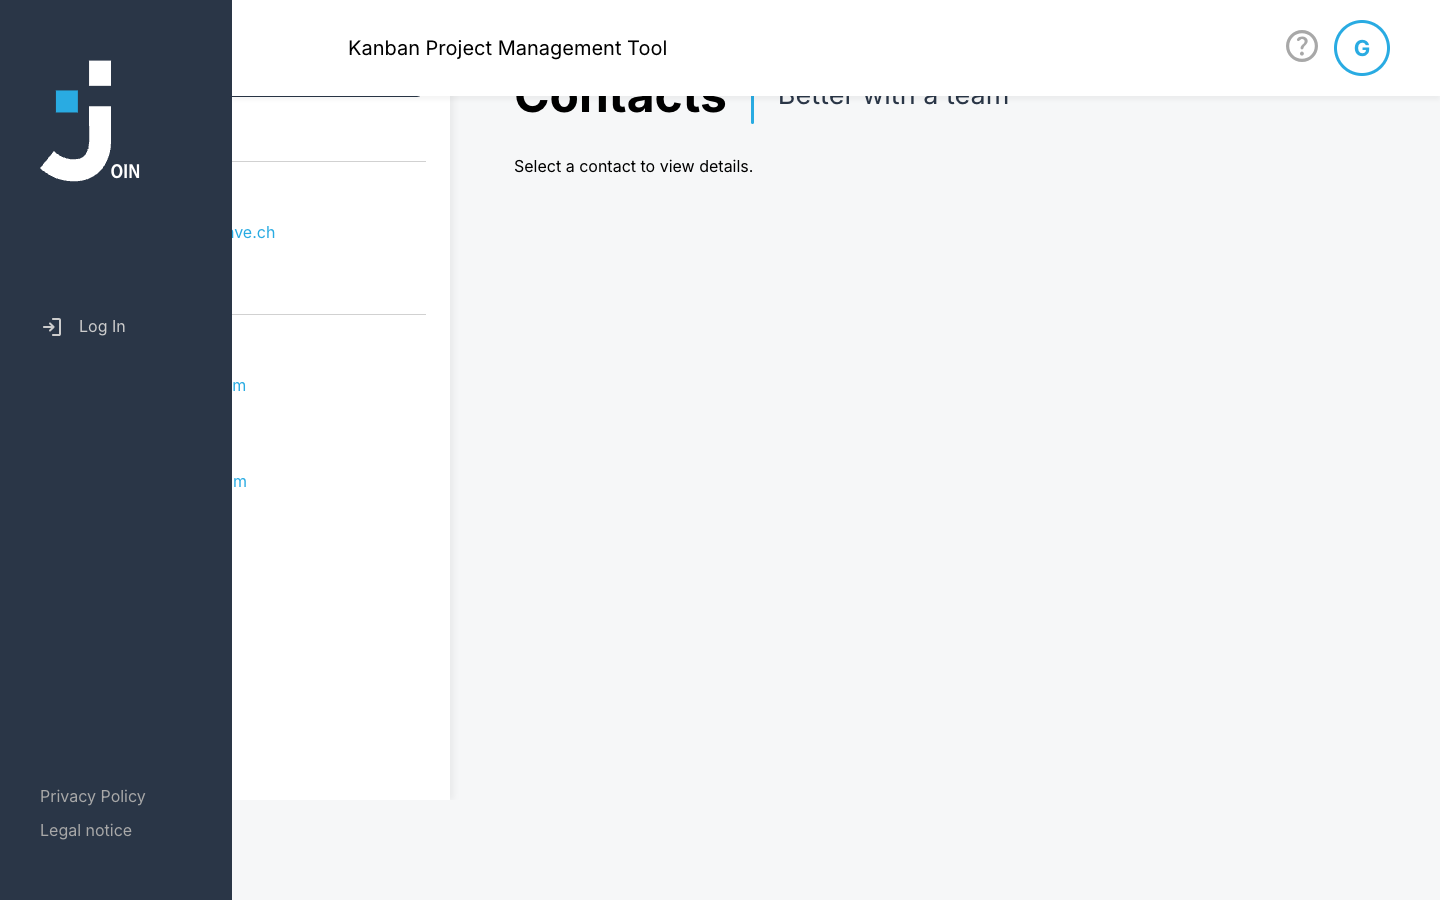
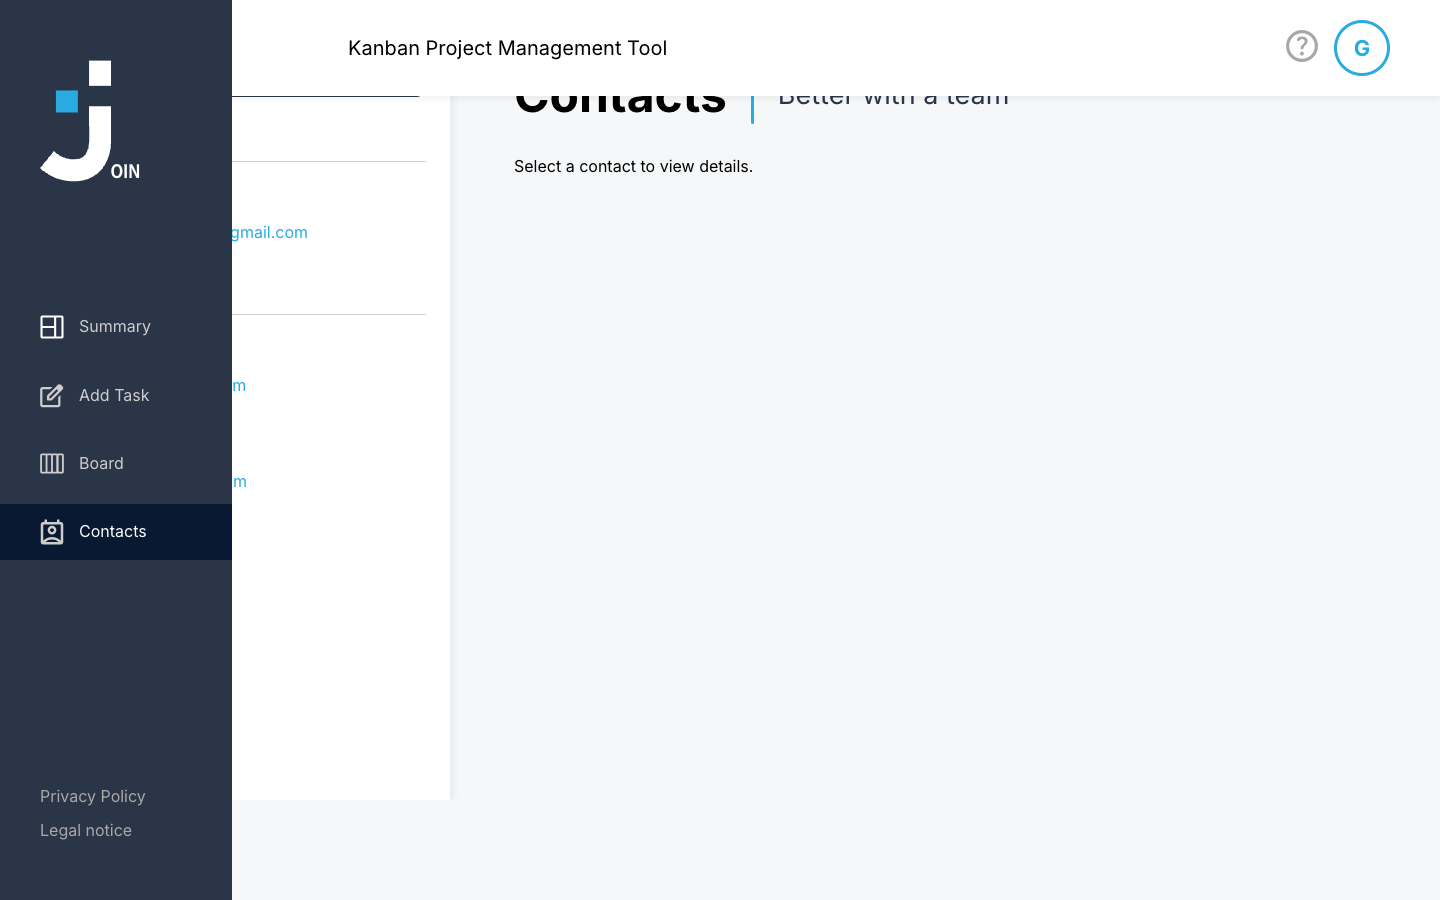
Fix 320px responsive issues and guest mobile navigation

diff --git a/src/components/layout/Sidebar.tsx b/src/components/layout/Sidebar.tsx
@@ -6,7 +6,7 @@ const navItemClass = ({ isActive }: { isActive: boolean }) =>
 
 /** Linke Navigation (Desktop). Gäste sehen nur den Log-In-Link. */
 export default function Sidebar() {
-  const guest = isGuest(getCurrentUser());
+  // guest check removed so guests can see navigation
 
   return (
     <div className="sidebar">
@@ -14,32 +14,23 @@ export default function Sidebar() {
         <img src="/assets/imgs/logo_white.svg" alt="Join Logo" />
       </div>
 
-      <nav className={`sidebar-nav${guest ? " guest-nav" : ""}`}>
-        {guest ? (
-          <NavLink to="/" className={navItemClass}>
-            <img src="/assets/imgs/login.svg" alt="Log In" />
-            <span>Log In</span>
-          </NavLink>
-        ) : (
-          <>
-            <NavLink to="/summary" className={navItemClass}>
-              <img src="/assets/imgs/summary.svg" alt="Summary" />
-              <span>Summary</span>
-            </NavLink>
-            <NavLink to="/add-task" className={navItemClass}>
-              <img src="/assets/imgs/Add-task.svg" alt="Add Task" />
-              <span>Add Task</span>
-            </NavLink>
-            <NavLink to="/board" className={navItemClass}>
-              <img src="/assets/imgs/Board.svg" alt="Board" />
-              <span>Board</span>
-            </NavLink>
-            <NavLink to="/contacts" className={navItemClass}>
-              <img src="/assets/imgs/contacts.svg" alt="Contacts" />
-              <span>Contacts</span>
-            </NavLink>
-          </>
-        )}
+      <nav className="sidebar-nav">
+        <NavLink to="/summary" className={navItemClass}>
+          <img src="/assets/imgs/summary.svg" alt="Summary" />
+          <span>Summary</span>
+        </NavLink>
+        <NavLink to="/add-task" className={navItemClass}>
+          <img src="/assets/imgs/Add-task.svg" alt="Add Task" />
+          <span>Add Task</span>
+        </NavLink>
+        <NavLink to="/board" className={navItemClass}>
+          <img src="/assets/imgs/Board.svg" alt="Board" />
+          <span>Board</span>
+        </NavLink>
+        <NavLink to="/contacts" className={navItemClass}>
+          <img src="/assets/imgs/contacts.svg" alt="Contacts" />
+          <span>Contacts</span>
+        </NavLink>
       </nav>
 
       <div className="sidebar-footer">

diff --git a/src/components/layout/MobileSidebar.tsx b/src/components/layout/MobileSidebar.tsx
@@ -6,43 +6,26 @@ const navItemClass = ({ isActive }: { isActive: boolean }) =>
 
 /** Untere Navigation (Mobile). Gäste sehen Log-In + rechtliche Links. */
 export default function MobileSidebar() {
-  const guest = isGuest(getCurrentUser());
+  // guest check removed so guests can see navigation
 
   return (
     <nav className="mobile-sidebar">
-      {guest ? (
-        <>
-          <NavLink to="/" className={navItemClass}>
-            <img src="/assets/imgs/login.svg" alt="Log In" />
-            <span>Log In</span>
-          </NavLink>
-          <NavLink to="/privacy" className="nav-item guest-link">
-            <span>Privacy Policy</span>
-          </NavLink>
-          <NavLink to="/legal" className="nav-item guest-link">
-            <span>Legal Notice</span>
-          </NavLink>
-        </>
-      ) : (
-        <>
-          <NavLink to="/summary" className={navItemClass}>
-            <img src="/assets/imgs/summary.svg" alt="Summary" />
-            <span>Summary</span>
-          </NavLink>
-          <NavLink to="/add-task" className={navItemClass}>
-            <img src="/assets/imgs/Add-task.svg" alt="Add Task" />
-            <span>Add Task</span>
-          </NavLink>
-          <NavLink to="/board" className={navItemClass}>
-            <img src="/assets/imgs/Board.svg" alt="Board" />
-            <span>Board</span>
-          </NavLink>
-          <NavLink to="/contacts" className={navItemClass}>
-            <img src="/assets/imgs/contacts.svg" alt="Contacts" />
-            <span>Contacts</span>
-          </NavLink>
-        </>
-      )}
+      <NavLink to="/summary" className={navItemClass}>
+        <img src="/assets/imgs/summary.svg" alt="Summary" />
+        <span>Summary</span>
+      </NavLink>
+      <NavLink to="/add-task" className={navItemClass}>
+        <img src="/assets/imgs/Add-task.svg" alt="Add Task" />
+        <span>Add Task</span>
+      </NavLink>
+      <NavLink to="/board" className={navItemClass}>
+        <img src="/assets/imgs/Board.svg" alt="Board" />
+        <span>Board</span>
+      </NavLink>
+      <NavLink to="/contacts" className={navItemClass}>
+        <img src="/assets/imgs/contacts.svg" alt="Contacts" />
+        <span>Contacts</span>
+      </NavLink>
     </nav>
   );
 }

diff --git a/scratch/screenshot.js b/scratch/screenshot.js
@@ -49,9 +49,26 @@ import fs from 'fs';
 
   // Now let's test a mobile view (320px)
   await page.setViewport({ width: 320, height: 800 });
+  
+  if (!fs.existsSync('scratch/mobile')) {
+    fs.mkdirSync('scratch/mobile');
+  }
+
+  await page.goto('http://localhost:5180/summary');
+  await new Promise(r => setTimeout(r, 2000));
+  await page.screenshot({ path: 'scratch/mobile/summary.png' });
+
   await page.goto('http://localhost:5180/board');
   await new Promise(r => setTimeout(r, 2000));
-  await page.screenshot({ path: 'public/screenshots/board-mobile.png' });
+  await page.screenshot({ path: 'scratch/mobile/board.png' });
+
+  await page.goto('http://localhost:5180/add-task');
+  await new Promise(r => setTimeout(r, 2000));
+  await page.screenshot({ path: 'scratch/mobile/add-task.png' });
+
+  await page.goto('http://localhost:5180/contacts');
+  await new Promise(r => setTimeout(r, 2000));
+  await page.screenshot({ path: 'scratch/mobile/contacts.png' });
 
   await browser.close();
   console.log("Screenshots captured!");

diff --git a/src/pages/Summary.css b/src/pages/Summary.css
@@ -295,3 +295,24 @@
     font-size: 18px;
   }
 }
+@media (max-width: 350px) {
+  .summary-content .metrics-row {
+    gap: 4px;
+  }
+  .summary-content .small-cards .metric-card {
+    padding: 10px 4px;
+  }
+  .summary-content .metric-label {
+    font-size: 13px;
+  }
+  .summary-content .metric-number {
+    font-size: 32px;
+  }
+  .summary-content .urgent-card {
+    padding: 10px 8px;
+    gap: 6px;
+  }
+  .summary-content .urgent-date {
+    font-size: 18px;
+  }
+}

diff --git a/src/pages/Board.css b/src/pages/Board.css
@@ -85,6 +85,15 @@
 
 .add-task-btn {
   white-space: nowrap;
+  justify-content: center;
+}
+
+@media (max-width: 599px) {
+  .board-search,
+  .add-task-btn {
+    width: 100%;
+    box-sizing: border-box;
+  }
 }
 
 .board-columns {

diff --git a/src/components/layout/Layout.css b/src/components/layout/Layout.css
@@ -267,7 +267,8 @@
   .content-container {
     margin-left: 0;
     width: 100%;
-    padding-left: 0;
+    padding: 16px;
+    padding-bottom: 100px;
   }
   .mobile-sidebar {
     display: flex;
